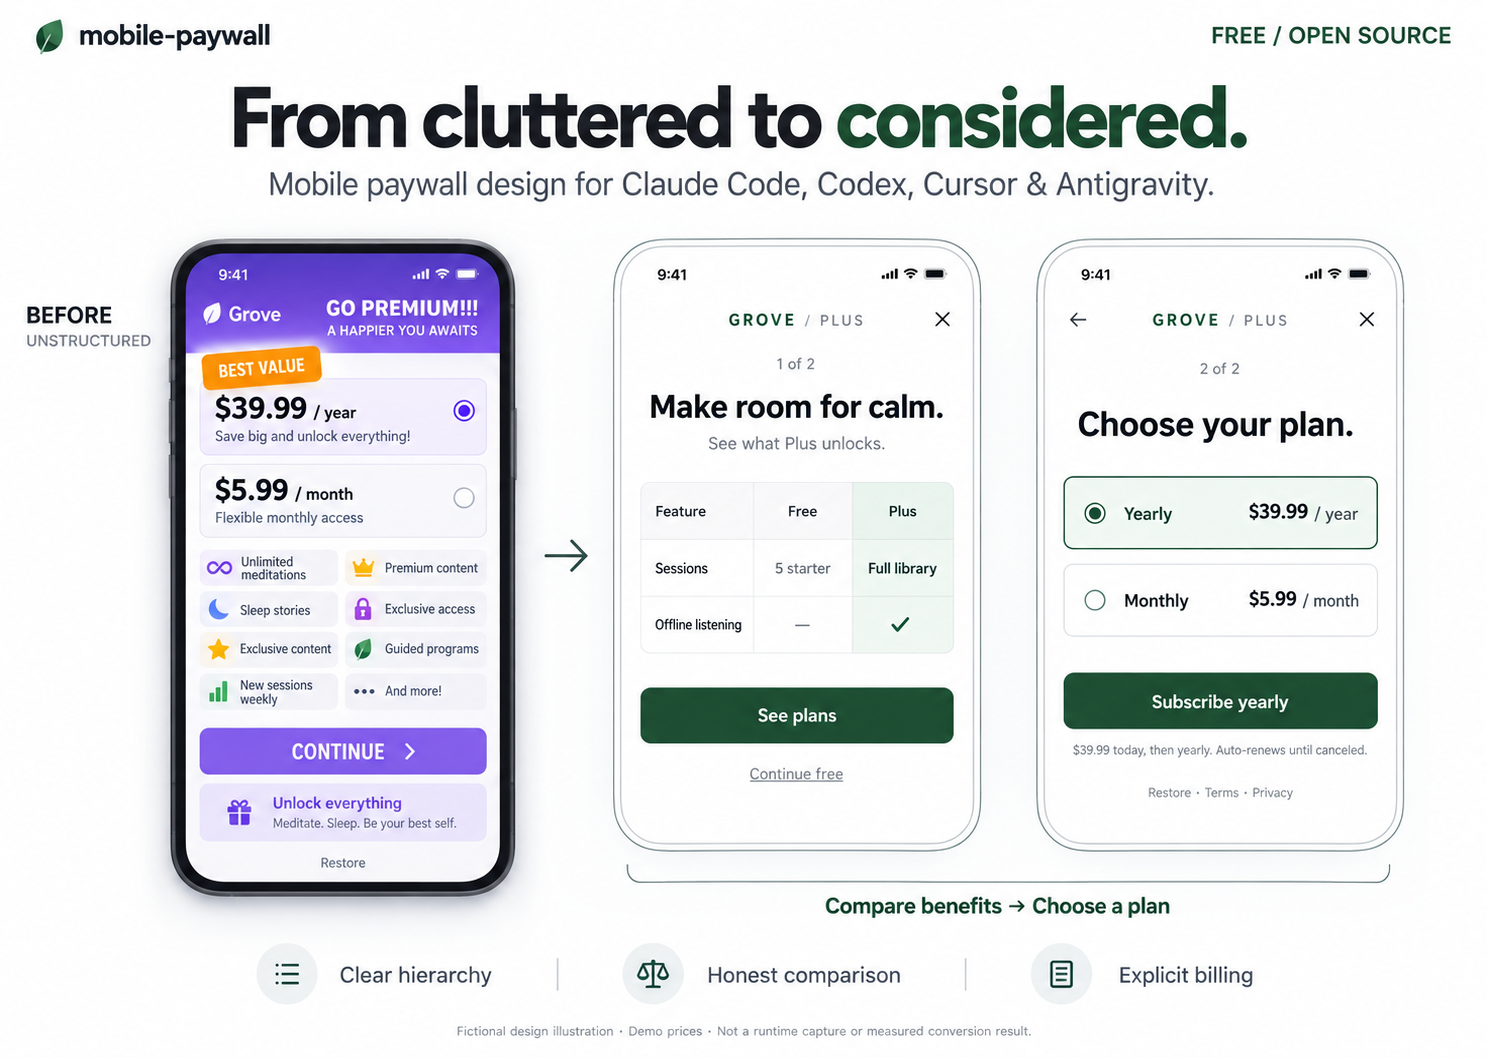
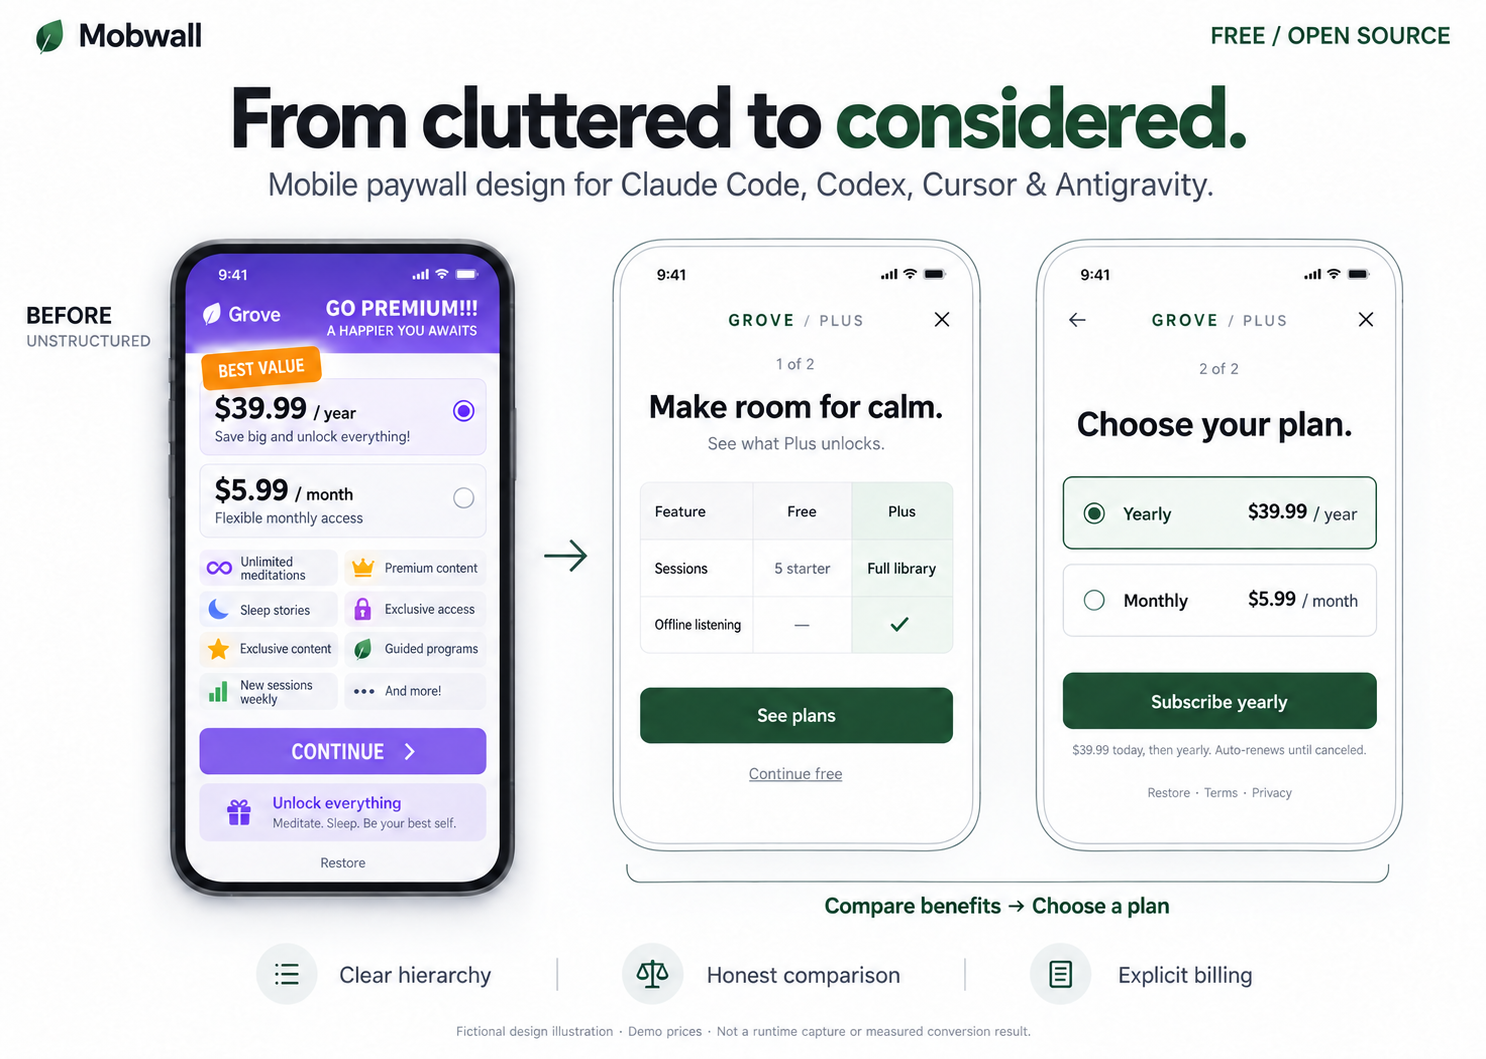
Rename project, skill and demos to Mobwall

diff --git a/examples/flutter/web/index.html b/examples/flutter/web/index.html
@@ -23,7 +23,7 @@
   <!-- iOS meta tags & icons -->
   <meta name="mobile-web-app-capable" content="yes">
   <meta name="apple-mobile-web-app-status-bar-style" content="black">
-  <meta name="apple-mobile-web-app-title" content="mobile_paywall_demo">
+  <meta name="apple-mobile-web-app-title" content="mobwall_demo">
   <link rel="apple-touch-icon" href="icons/Icon-192.png">
 
   <!-- Favicon -->

diff --git a/examples/flutter/test/paywall_test.dart b/examples/flutter/test/paywall_test.dart
@@ -1,8 +1,8 @@
 import 'dart:async';
 import 'package:flutter/material.dart';
 import 'package:flutter_test/flutter_test.dart';
-import 'package:mobile_paywall_demo/main.dart';
-import 'package:mobile_paywall_demo/paywall_flow.dart';
+import 'package:mobwall_demo/main.dart';
+import 'package:mobwall_demo/paywall_flow.dart';
 
 Widget host({
   List<PaywallOffer> offers = demoOffers,

diff --git a/examples/android/app/src/main/java/dev/mobwall/demo/PaywallScreen.kt b/examples/android/app/src/main/java/dev/mobwall/demo/PaywallScreen.kt
@@ -1,4 +1,4 @@
-package dev.mobilepaywall.demo
+package dev.mobwall.demo
 
 import androidx.compose.foundation.BorderStroke
 import androidx.compose.foundation.layout.*

diff --git a/examples/flutter/android/app/src/main/kotlin/dev/mobwall/mobwall_demo/MainActivity.kt b/examples/flutter/android/app/src/main/kotlin/dev/mobwall/mobwall_demo/MainActivity.kt
@@ -1,4 +1,4 @@
-package dev.mobilepaywall.mobile_paywall_demo
+package dev.mobwall.mobwall_demo
 
 import io.flutter.embedding.android.FlutterActivity
 

diff --git a/examples/android/app/src/main/java/dev/mobwall/demo/MainActivity.kt b/examples/android/app/src/main/java/dev/mobwall/demo/MainActivity.kt
@@ -1,4 +1,4 @@
-package dev.mobilepaywall.demo
+package dev.mobwall.demo
 
 import android.os.Bundle
 import androidx.activity.ComponentActivity

diff --git a/tests/test_install.py b/tests/test_install.py
@@ -29,7 +29,7 @@ class InstallerTests(unittest.TestCase):
         for agent, folder in installer.ROOTS.items():
             with self.subTest(agent=agent):
                 self.run_install([agent])
-                target = self.project / folder / "skills/mobile-paywall"
+                target = self.project / folder / "skills/mobwall"
                 self.assertEqual(installer.snapshot(target), installer.snapshot(installer.SOURCE))
 
     def test_all_deduplicates_shared_discovery_path(self):
@@ -62,7 +62,7 @@ class InstallerTests(unittest.TestCase):
         self.assertEqual((target / "custom.txt").read_text(), "keep")
 
     def test_preflight_prevents_partial_install_on_conflict(self):
-        target = self.project / ".claude/skills/mobile-paywall"
+        target = self.project / ".claude/skills/mobwall"
         target.mkdir(parents=True)
         (target / "SKILL.md").write_text("custom")
         with self.assertRaises(ValueError):
@@ -110,12 +110,12 @@ class InstallerTests(unittest.TestCase):
         with patch.object(installer.shutil, "copytree", side_effect=OSError("disk full")):
             with self.assertRaises(OSError):
                 self.run_install()
-        self.assertFalse((self.project / ".agents/skills/mobile-paywall").exists())
+        self.assertFalse((self.project / ".agents/skills/mobwall").exists())
 
     def test_cli_works_from_an_unrelated_directory(self):
         result = subprocess.run([sys.executable, str(ROOT / "scripts/install.py"), "--agent", "all", "--project", str(self.project)], cwd=self.temp.name, capture_output=True, text=True)
         self.assertEqual(result.returncode, 0, result.stderr)
-        self.assertTrue((self.project / ".claude/skills/mobile-paywall/SKILL.md").is_file())
+        self.assertTrue((self.project / ".claude/skills/mobwall/SKILL.md").is_file())
 
     def test_cli_invalid_agent_fails_without_writes(self):
         result = subprocess.run([sys.executable, str(ROOT / "scripts/install.py"), "--agent", "invalid", "--project", str(self.project)], capture_output=True)

diff --git a/scripts/check.py b/scripts/check.py
@@ -12,7 +12,7 @@ ROOT = Path(__file__).resolve().parents[1]
 
 def check(root=ROOT):
     errors = []
-    skill = root / "skills/mobile-paywall/SKILL.md"
+    skill = root / "skills/mobwall/SKILL.md"
     content = skill.read_text(encoding="utf-8")
     match = re.match(r"\A---\n(.*?)\n---\n", content, re.S)
     if not match:
@@ -25,7 +25,7 @@ def check(root=ROOT):
             if not separator or not value.strip() or key in fields:
                 errors.append("Invalid or duplicate frontmatter field: " + line)
             fields[key] = value.strip()
-        if fields.get("name") != "mobile-paywall":
+        if fields.get("name") != "mobwall":
             errors.append("Skill name must match its folder")
         if not 1 <= len(fields.get("description", "")) <= 1024:
             errors.append("Description must be 1–1024 characters")

diff --git a/scripts/install.py b/scripts/install.py
@@ -6,7 +6,7 @@ from pathlib import Path
 import shutil
 import sys
 
-NAME = "mobile-paywall"
+NAME = "mobwall"
 SOURCE = Path(__file__).resolve().parents[1] / "skills" / NAME
 # The shared location avoids duplicate discovery in Cursor and Antigravity.
 ROOTS = {"claude": ".claude", "codex": ".agents", "cursor": ".agents", "antigravity": ".agents"}

diff --git a/docs/installation.md b/docs/installation.md
@@ -13,33 +13,39 @@ The app directory must exist. Python 3.9+ is needed only for the installer. Wind
 
 | Agent option | Project destination |
 | --- | --- |
-| `claude` | `.claude/skills/mobile-paywall/` |
-| `codex` | `.agents/skills/mobile-paywall/` |
-| `cursor` | `.agents/skills/mobile-paywall/` |
-| `antigravity` | `.agents/skills/mobile-paywall/` |
+| `claude` | `.claude/skills/mobwall/` |
+| `codex` | `.agents/skills/mobwall/` |
+| `cursor` | `.agents/skills/mobwall/` |
+| `antigravity` | `.agents/skills/mobwall/` |
 | `all` | The two distinct locations above; no duplicate copies for the shared path. |
 
 The installer preflights conflicts before copying. An identical installation is a no-op. A different or customized installation is preserved and reported as a conflict. Filesystem failures can still leave earlier successful destinations installed; rerun after resolving the failure. Destination links are rejected to avoid accidentally writing outside the intended folders.
 
 ## Manual installation
 
-Copy the entire [skill folder](../skills/mobile-paywall), including `references/`, to the desired project destination above. For all four agents copy it into both locations. Copy the contents as one `mobile-paywall` folder; avoid an extra nested folder level. The final path must end in `mobile-paywall/SKILL.md`.
+Copy the entire [skill folder](../skills/mobwall), including `references/`, to the desired project destination above. For all four agents copy it into both locations. Copy the contents as one `mobwall` folder; avoid an extra nested folder level. The final path must end in `mobwall/SKILL.md`.
 
-Do not install an additional `.cursor/skills/mobile-paywall` copy when the shared `.agents` version is already available. If your tool has an older discovery convention, check its version-specific documentation before choosing an alternate location.
+Do not install an additional `.cursor/skills/mobwall` copy when the shared `.agents` version is already available. If your tool has an older discovery convention, check its version-specific documentation before choosing an alternate location.
 
 ## Invoke
 
-- **Claude Code:** `/mobile-paywall Improve the existing subscription screen.`
-- **Codex:** `$mobile-paywall Improve the existing subscription screen.`
-- **Cursor / Antigravity:** `Use the mobile-paywall skill to improve the existing subscription screen.` Select the skill in the client if its UI offers a picker.
+- **Claude Code:** `/mobwall Improve the existing subscription screen.`
+- **Codex:** `$mobwall Improve the existing subscription screen.`
+- **Cursor / Antigravity:** `Use the mobwall skill to improve the existing subscription screen.` Select the skill in the client if its UI offers a picker.
 
 Open or restart the agent in the target app project after first installation. If the skill is missing, verify the exact folder and `SKILL.md` name, project/workspace root, client support for skills, and any organization policy disabling local skills. As a fallback for troubleshooting, ask the agent to read the exact installed `SKILL.md` path; this does not prove automatic discovery works.
 
 ## Update or remove
 
-Keep any custom changes. Move the existing `mobile-paywall` skill directory to a backup location **outside skill-discovery folders**, then run the installer again. Compare and reapply your customizations intentionally. There is no automatic update or overwrite switch.
+Keep any custom changes. Move the existing `mobwall` skill directory to a backup location **outside skill-discovery folders**, then run the installer again. Compare and reapply your customizations intentionally. There is no automatic update or overwrite switch.
 
-To remove, delete only the installed `mobile-paywall` directory in the destinations above. Other skills and agent settings are unrelated. Removing the shared copy affects all tools that use it. Restart the client to clear already-loaded instructions.
+To remove, delete only the installed `mobwall` directory in the destinations above. Other skills and agent settings are unrelated. Removing the shared copy affects all tools that use it. Restart the client to clear already-loaded instructions.
+
+## Rename migration
+
+Mobwall was previously named `mobile-paywall`. Before installing Mobwall in an app that has the previous release, move the old `mobile-paywall` folder out of `.claude/skills/`, `.agents/skills/` and any custom `.cursor/skills/` location you used. Keep it as a backup outside all discovery directories, especially if customized. Then install `mobwall`, compare/reapply your customizations and restart your agent. The installer does not delete or migrate old copies automatically.
+
+Use `/mobwall` in Claude Code and `$mobwall` in Codex after migration. Demo package identifiers have also changed; these are sample apps, not a migration of an existing production app or store listing.
 
 ## Official sources
 

diff --git a/README.md b/README.md
@@ -1,8 +1,8 @@
 <div align="center">
 
-# Mobile Paywall
+# Mobwall
 
-### Give your coding agent a better paywall brief.
+### Better mobile paywalls, inside your coding agent.
 
 Design a new subscription screen. Audit an existing one. Implement it in your app.
 
@@ -45,21 +45,23 @@ Choose `cursor`, `claude`, `codex` or `antigravity` instead of `all` to install 
 
 | Agent | Installed location in your app | Invoke |
 | :--- | :--- | :--- |
-| Claude Code | `.claude/skills/mobile-paywall/` | `/mobile-paywall` |
-| Codex | `.agents/skills/mobile-paywall/` | `$mobile-paywall` |
-| Cursor | `.agents/skills/mobile-paywall/` | Select `mobile-paywall` from `/` in Agent chat |
-| Antigravity | `.agents/skills/mobile-paywall/` | Ask to use the `mobile-paywall` skill |
+| Claude Code | `.claude/skills/mobwall/` | `/mobwall` |
+| Codex | `.agents/skills/mobwall/` | `$mobwall` |
+| Cursor | `.agents/skills/mobwall/` | Select `mobwall` from `/` in Agent chat |
+| Antigravity | `.agents/skills/mobwall/` | Ask to use the `mobwall` skill |
 
 Restart the agent in your app after installing. The installer copies local files, makes no network calls and preserves different/customized existing copies. Discovery paths are documented; full task execution in all four clients has not been independently verified.
 
 <details>
 <summary><strong>No Python? Install manually · Updating an older copy?</strong></summary>
 
-Copy the entire [mobile-paywall skill folder](skills/mobile-paywall), including `references/`, into the destination above. The resulting path must end in `mobile-paywall/SKILL.md`.
+Copy the entire [mobwall skill folder](skills/mobwall), including `references/`, into the destination above. The resulting path must end in `mobwall/SKILL.md`.
 
 For an update, move your previous skill folder to a backup location outside all skill-discovery directories, then install the new copy. The installer intentionally refuses to overwrite a different version. Avoid duplicate copies in `.cursor/skills` and `.agents/skills`.
 
 [Full installation and troubleshooting](docs/installation.md)
+
+Installed the earlier `mobile-paywall` release? Follow the [rename migration](docs/installation.md#rename-migration) to avoid duplicate skill discovery.
 
 </details>
 
@@ -68,7 +70,7 @@ For an update, move your previous skill folder to a backup location outside all 
 **Audit first:** attach your screenshot and send this in your app project.
 
 ```text
-Use mobile-paywall to audit my current paywall.
+Use mobwall to audit my current paywall.
 Read the relevant skill references and inspect my screen and code.
 Keep actual products, prices and trial eligibility.
 Give me prioritized findings and a concrete redesign. Do not change code yet.
@@ -77,7 +79,7 @@ Give me prioritized findings and a concrete redesign. Do not change code yet.
 **Then implement:**
 
 ```text
-Use mobile-paywall to implement the proposed design in this app.
+Use mobwall to implement the proposed design in this app.
 Preserve my state management, navigation and billing integration.
 Use ✓/— for included/not-included features and text for numeric limits.
 Keep screen-reader labels, restore, dismissal and renewal terms clear.
@@ -93,7 +95,7 @@ No app yet? Open one of the examples below, or provide a brief with audience, fr
 | **Flutter** · iOS / Android hosts | Dart | [Two-step paywall](examples/flutter/README.md) | Analysis, 8 widget tests; web build and browser review on recorded revisions |
 | **Android** · Jetpack Compose | Kotlin | [Native demo](examples/android/README.md) | Debug APK build |
 | **iOS** · SwiftUI | Swift | [Native screen](examples/swiftui/README.md) | macOS type-check and hosted preview; iOS build not run locally |
-| React Native | JavaScript / TypeScript | [Integration guidance](skills/mobile-paywall/references/implementation.md) | No bundled app or platform test |
+| React Native | JavaScript / TypeScript | [Integration guidance](skills/mobwall/references/implementation.md) | No bundled app or platform test |
 
 **Documentation:** English and [Türkçe](docs/README.tr.md). **Demo UI:** English. The skill follows the requested product locale and existing localization files; translated production interfaces are not bundled or certified for every locale.
 
@@ -110,7 +112,7 @@ For broad onboarding design, include a purposeful two-screen candidate alongside
 
 A narrow copy fix stays narrow. A high-intent feature gate does not automatically need another page. The table and extra screen are design choices to test, not guaranteed improvements.
 
-[Worked design](examples/cases/grove-two-step.md) · [Source ledger](skills/mobile-paywall/references/research.md) · [All example briefs](examples/cases/README.md)
+[Worked design](examples/cases/grove-two-step.md) · [Source ledger](skills/mobwall/references/research.md) · [All example briefs](examples/cases/README.md)
 
 ## Reported in production
 

diff --git a/docs/README.tr.md b/docs/README.tr.md
@@ -1,8 +1,8 @@
 <div align="center">
 
-# Mobile Paywall
+# Mobwall
 
-### Kod ajanına daha iyi bir paywall brief’i ver.
+### Kod ajanının içinde, daha iyi mobil paywall’lar.
 
 Yeni abonelik ekranı tasarla. Mevcut ekranı incele. Uygulamana uygula.
 
@@ -45,21 +45,23 @@ Tek araç için `all` yerine `cursor`, `claude`, `codex` veya `antigravity` kull
 
 | Araç | Projedeki konum | Kullanım |
 | :--- | :--- | :--- |
-| Claude Code | `.claude/skills/mobile-paywall/` | `/mobile-paywall` |
-| Codex | `.agents/skills/mobile-paywall/` | `$mobile-paywall` |
-| Cursor | `.agents/skills/mobile-paywall/` | Agent sohbetinde `/` menüsünden seç |
-| Antigravity | `.agents/skills/mobile-paywall/` | `mobile-paywall` skill’ini kullanmasını iste |
+| Claude Code | `.claude/skills/mobwall/` | `/mobwall` |
+| Codex | `.agents/skills/mobwall/` | `$mobwall` |
+| Cursor | `.agents/skills/mobwall/` | Agent sohbetinde `/` menüsünden seç |
+| Antigravity | `.agents/skills/mobwall/` | `mobwall` skill’ini kullanmasını iste |
 
 Kurulumdan sonra ajanı hedef projenin içinde yeniden başlat. Kurucu ağ bağlantısı kurmaz; mevcut farklı sürümlerin üzerine yazmaz. Dört istemcide kapsamlı uçtan uca kullanım bağımsız doğrulanmış değildir.
 
 <details>
 <summary><strong>Elle kurulum ve güncelleme</strong></summary>
 
-[Skill klasörünün](../skills/mobile-paywall) tamamını, `references/` dahil, yukarıdaki hedefe kopyala. Son yol `mobile-paywall/SKILL.md` olmalı.
+[Skill klasörünün](../skills/mobwall) tamamını, `references/` dahil, yukarıdaki hedefe kopyala. Son yol `mobwall/SKILL.md` olmalı.
 
 Güncellerken eski skill klasörünü keşif klasörlerinin dışındaki bir yedek konuma taşı, ardından yeni sürümü kur. Aynı skill’i hem `.cursor/skills` hem `.agents/skills` altında tutma.
 
 [Ayrıntılı kurulum ve sorun giderme](installation.md)
+
+Önceki `mobile-paywall` sürümünü kurduysan çift keşfi önlemek için [isim değişikliği adımlarını](installation.md#rename-migration) uygula.
 
 </details>
 
@@ -68,7 +70,7 @@ Güncellerken eski skill klasörünü keşif klasörlerinin dışındaki bir yed
 Ekran görüntünü ekleyip önce analiz iste:
 
 ```text
-mobile-paywall skill’ini kullanarak mevcut paywall’ımı incele.
+mobwall skill’ini kullanarak mevcut paywall’ımı incele.
 İlgili skill referanslarını, ekranı ve kodu oku.
 Gerçek ürünleri, fiyatları ve deneme uygunluğunu koru.
 Önceliklendirilmiş bulgular ve somut tasarım önerisi ver. Şimdilik kod değiştirme.
@@ -77,7 +79,7 @@ Gerçek ürünleri, fiyatları ve deneme uygunluğunu koru.
 Sonra uygulamayı iste:
 
 ```text
-mobile-paywall ile öneriyi mevcut uygulamamda uygula.
+mobwall ile öneriyi mevcut uygulamamda uygula.
 State management, navigation ve ödeme entegrasyonunu koru.
 Var/yok özelliklerinde ✓/—, sayısal limitlerde metin kullan.
 Ekran okuyucu açıklamalarını, geri yüklemeyi ve yenileme koşullarını koru.
@@ -91,7 +93,7 @@ Ekran okuyucu açıklamalarını, geri yüklemeyi ve yenileme koşullarını kor
 | Flutter · iOS/Android hostları | Dart | [İki ekranlı demo](../examples/flutter/README.md): analiz, 8 widget testi; kayıtlı sürümlerde web derlemesi ve tarayıcı kontrolü. |
 | Android · Jetpack Compose | Kotlin | [Native demo](../examples/android/README.md): debug APK derlendi. |
 | iOS · SwiftUI | Swift | [Örnek ekran](../examples/swiftui/README.md): macOS tip kontrolü ve önizleme; yerelde iOS derlemesi yapılmadı. |
-| React Native | JavaScript / TypeScript | [Entegrasyon rehberi](../skills/mobile-paywall/references/implementation.md); hazır proje ve platform testi yok. |
+| React Native | JavaScript / TypeScript | [Entegrasyon rehberi](../skills/mobwall/references/implementation.md); hazır proje ve platform testi yok. |
 
 **Dokümantasyon:** İngilizce ve Türkçe. **Demo arayüzleri:** İngilizce. Skill, ürünün istenen dilini ve mevcut yerelleştirme dosyalarını takip eder; tüm diller için hazır veya test edilmiş çeviri paketi sunmaz.
 
@@ -101,7 +103,7 @@ Kapsamlı onboarding çalışmasında **değer ve Ücretsiz/Plus karşılaştır
 
 Küçük değişikliği tam yeniden tasarıma dönüştürmez. Kullanıcı değeri zaten biliyorsa fazladan ekran zorunlu değildir. İki ekran ve karşılaştırma tablosu test edilecek tasarım seçenekleridir.
 
-[İki ekranlı tasarım](../examples/cases/grove-two-step.md) · [Kaynaklar](../skills/mobile-paywall/references/research.md)
+[İki ekranlı tasarım](../examples/cases/grove-two-step.md) · [Kaynaklar](../skills/mobwall/references/research.md)
 
 ## Bildirilen üretim kullanımı
 

diff --git a/docs/validation.md b/docs/validation.md
@@ -1,6 +1,6 @@
 # Validation record
 
-Release candidate: **0.4.0**, checked **2026-09-10**. This record states what was exercised locally. CI configuration and behavioral rubrics are not completed runs.
+Release candidate: **0.4.1**, checked **2026-09-10**. This record states what was exercised locally. CI configuration and behavioral rubrics are not completed runs.
 
 | Check | Result | Evidence and limits |
 | --- | --- | --- |
@@ -61,6 +61,14 @@ The README uses `assets/preview-skill.png`, an AI-assisted fictional illustratio
 Application and skill instructions are unchanged in this documentation release; previously recorded native and Flutter results retain their original limits.
 
 Repository checks and all 15 installer tests passed. The release ZIP was extracted to a fresh temporary directory, its package checks passed, and installation into an empty app folder produced byte-identical skill files in both discovery destinations. All seven flags and three badges parsed as SVG; flag dimensions and absence of reuse/marker elements were checked. A raster contact sheet was visually inspected. Full README rendering on GitHub has not been checked before publication.
+
+## Mobwall rename in 0.4.1
+
+The project, canonical skill folder, frontmatter name, installer destinations, invocation examples, fixtures and demo package identifiers now use Mobwall / `mobwall`. Both documentation languages and the separate launch copy were updated. Earlier-name references remain only in migration instructions. Demo product content still uses the fictional Grove brand.
+
+The built-in image tool changed the hero's top-left brand text to “Mobwall”, with the prompt to preserve the three screens, other copy, prices, disclosure and composition. The resulting `assets/preview-skill.png` was visually inspected. Editable SVG branding was updated and its corresponding PNG regenerated. These remain illustrations, not new runtime or conversion evidence.
+
+The skill validator, repository checks, 15 installer tests and fresh ZIP installation passed under the new name. Flutter dependencies were refreshed offline; analysis and all eight widget tests passed with the renamed Dart package. The native Compose debug APK rebuilt successfully with `dev.mobwall.demo`; sandbox restrictions on the Kotlin daemon triggered its successful non-daemon compilation fallback. Flutter iOS property-list/project syntax checks passed, but no native Flutter or iOS build was performed for the rename. Earlier runtime limitations still apply.
 
 ## Client compatibility
 
